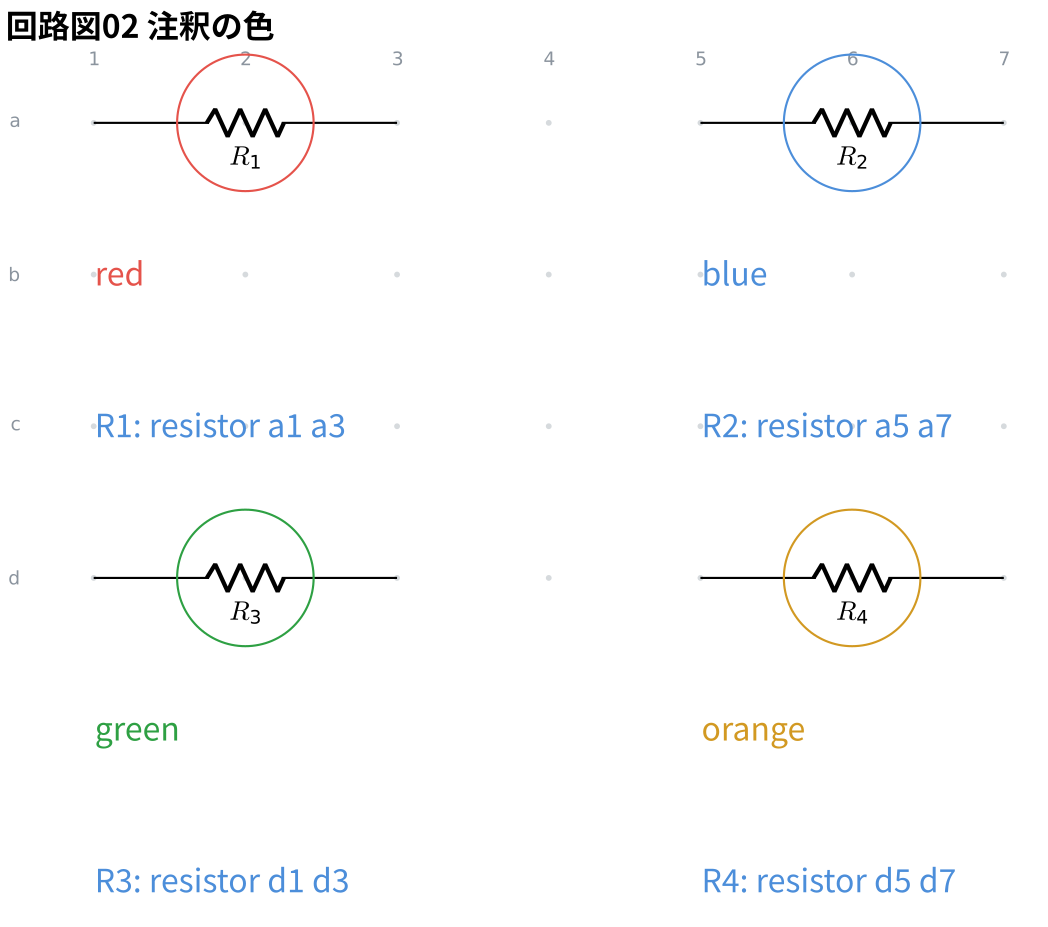
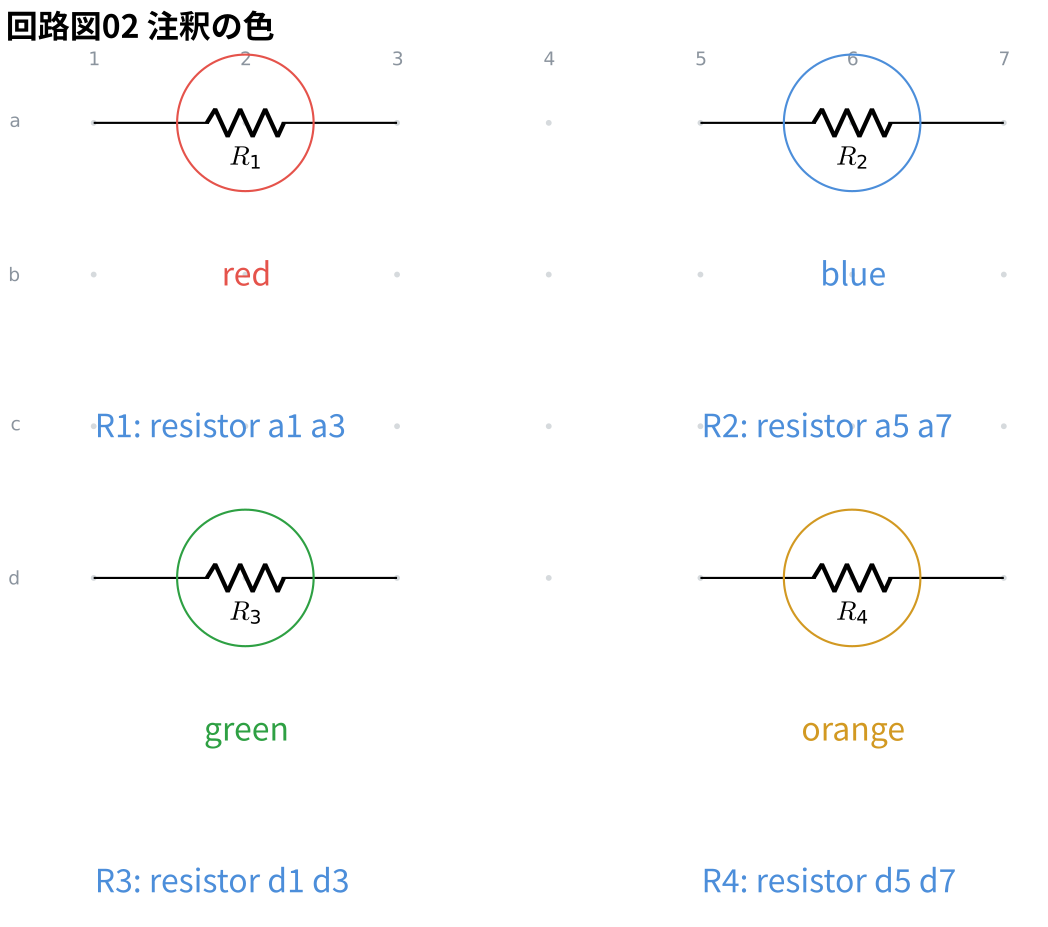
docs: 注釈の色の図で色名を部品の真下にセンタリングする
red を b2 のように、囲んだ部品の中心の列に center で置く。
左端揃えだと、どの部品の色を指しているのかが列を数えないと
読めなかった。

🤖 Generated with [Claude Code](https://claude.com/claude-code)

diff --git a/packages/circuit-fence/examples/out/12-notes-2.tex b/packages/circuit-fence/examples/out/12-notes-2.tex
@@ -37,18 +37,18 @@
 \draw[circuitnoteblue] (10,0) circle (0.9); % line 9
 \draw[circuitnotegreen] (2,-6) circle (0.9); % line 10
 \draw[circuitnoteorange] (10,-6) circle (0.9); % line 11
-\path (0,-2.593) rectangle (0.762,-1.407); % line 12
-\node[anchor=west, inner sep=0, circuitnotemark, font=\large] at (0,-2) {X}; % line 12
-\path (8,-2.593) rectangle (9.016,-1.407); % line 13
-\node[anchor=west, inner sep=0, circuitnotemark, font=\large] at (8,-2) {X}; % line 13
+\path (1.619,-2.593) rectangle (2.381,-1.407); % line 12
+\node[anchor=west, inner sep=0, circuitnotemark, font=\large] at (2,-2) {X}; % line 12
+\path (9.492,-2.593) rectangle (10.508,-1.407); % line 13
+\node[anchor=west, inner sep=0, circuitnotemark, font=\large] at (10,-2) {X}; % line 13
 \path (0,-4.593) rectangle (4.572,-3.407); % line 14
 \node[anchor=west, inner sep=0, circuitnotemark, font=\large] at (0,-4) {X}; % line 14
 \path (8,-4.593) rectangle (12.572,-3.407); % line 15
 \node[anchor=west, inner sep=0, circuitnotemark, font=\large] at (8,-4) {X}; % line 15
-\path (0,-8.593) rectangle (1.27,-7.407); % line 16
-\node[anchor=west, inner sep=0, circuitnotemark, font=\large] at (0,-8) {X}; % line 16
-\path (8,-8.593) rectangle (9.524,-7.407); % line 17
-\node[anchor=west, inner sep=0, circuitnotemark, font=\large] at (8,-8) {X}; % line 17
+\path (1.365,-8.593) rectangle (2.635,-7.407); % line 16
+\node[anchor=west, inner sep=0, circuitnotemark, font=\large] at (2,-8) {X}; % line 16
+\path (9.238,-8.593) rectangle (10.762,-7.407); % line 17
+\node[anchor=west, inner sep=0, circuitnotemark, font=\large] at (10,-8) {X}; % line 17
 \path (0,-10.593) rectangle (4.572,-9.407); % line 18
 \node[anchor=west, inner sep=0, circuitnotemark, font=\large] at (0,-10) {X}; % line 18
 \path (8,-10.593) rectangle (12.572,-9.407); % line 19

diff --git a/packages/circuit-fence/examples/12-notes.md b/packages/circuit-fence/examples/12-notes.md
@@ -52,12 +52,12 @@ notes:
   - circle R2 blue
   - circle R3 green
   - circle R4 orange
-  - text b1 red large: red
-  - text b5 blue large: blue
+  - text b2 red large center: red
+  - text b6 blue large center: blue
   - text c1 blue large: "R1: resistor a1 a3"
   - text c5 blue large: "R2: resistor a5 a7"
-  - text e1 green large: green
-  - text e5 orange large: orange
+  - text e2 green large center: green
+  - text e6 orange large center: orange
   - text f1 blue large: "R3: resistor d1 d3"
   - text f5 blue large: "R4: resistor d5 d7"
 style:
